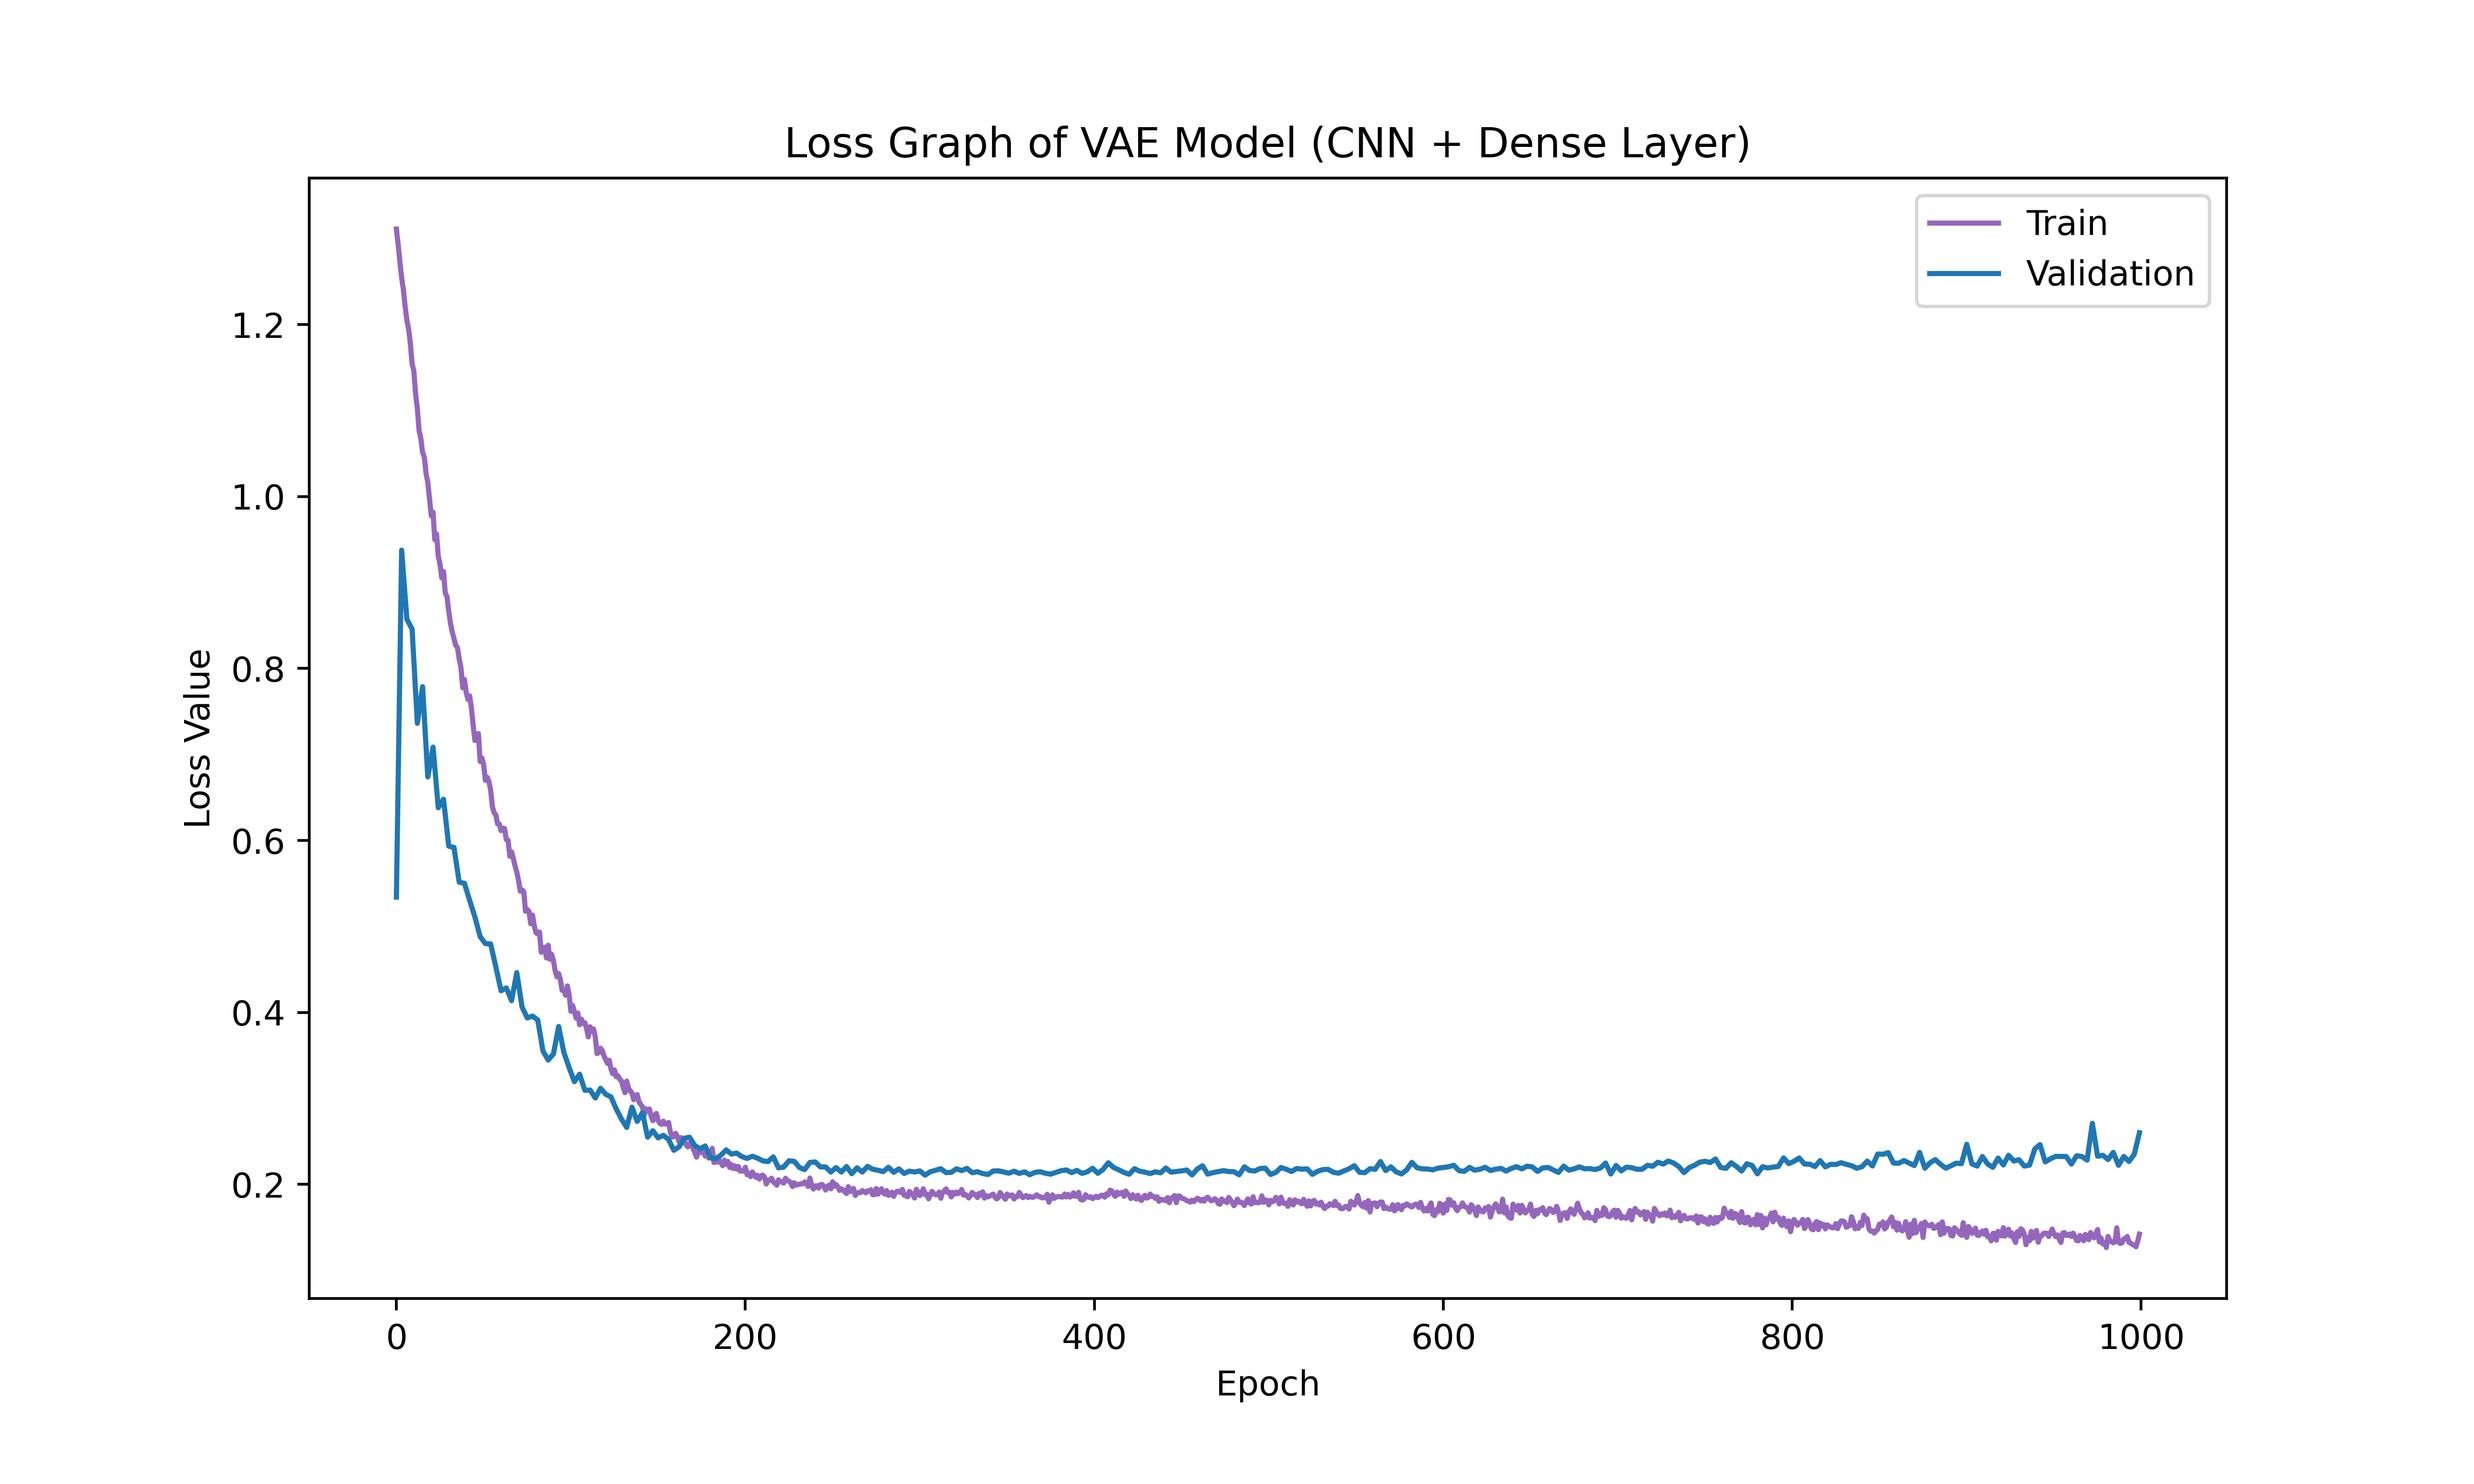
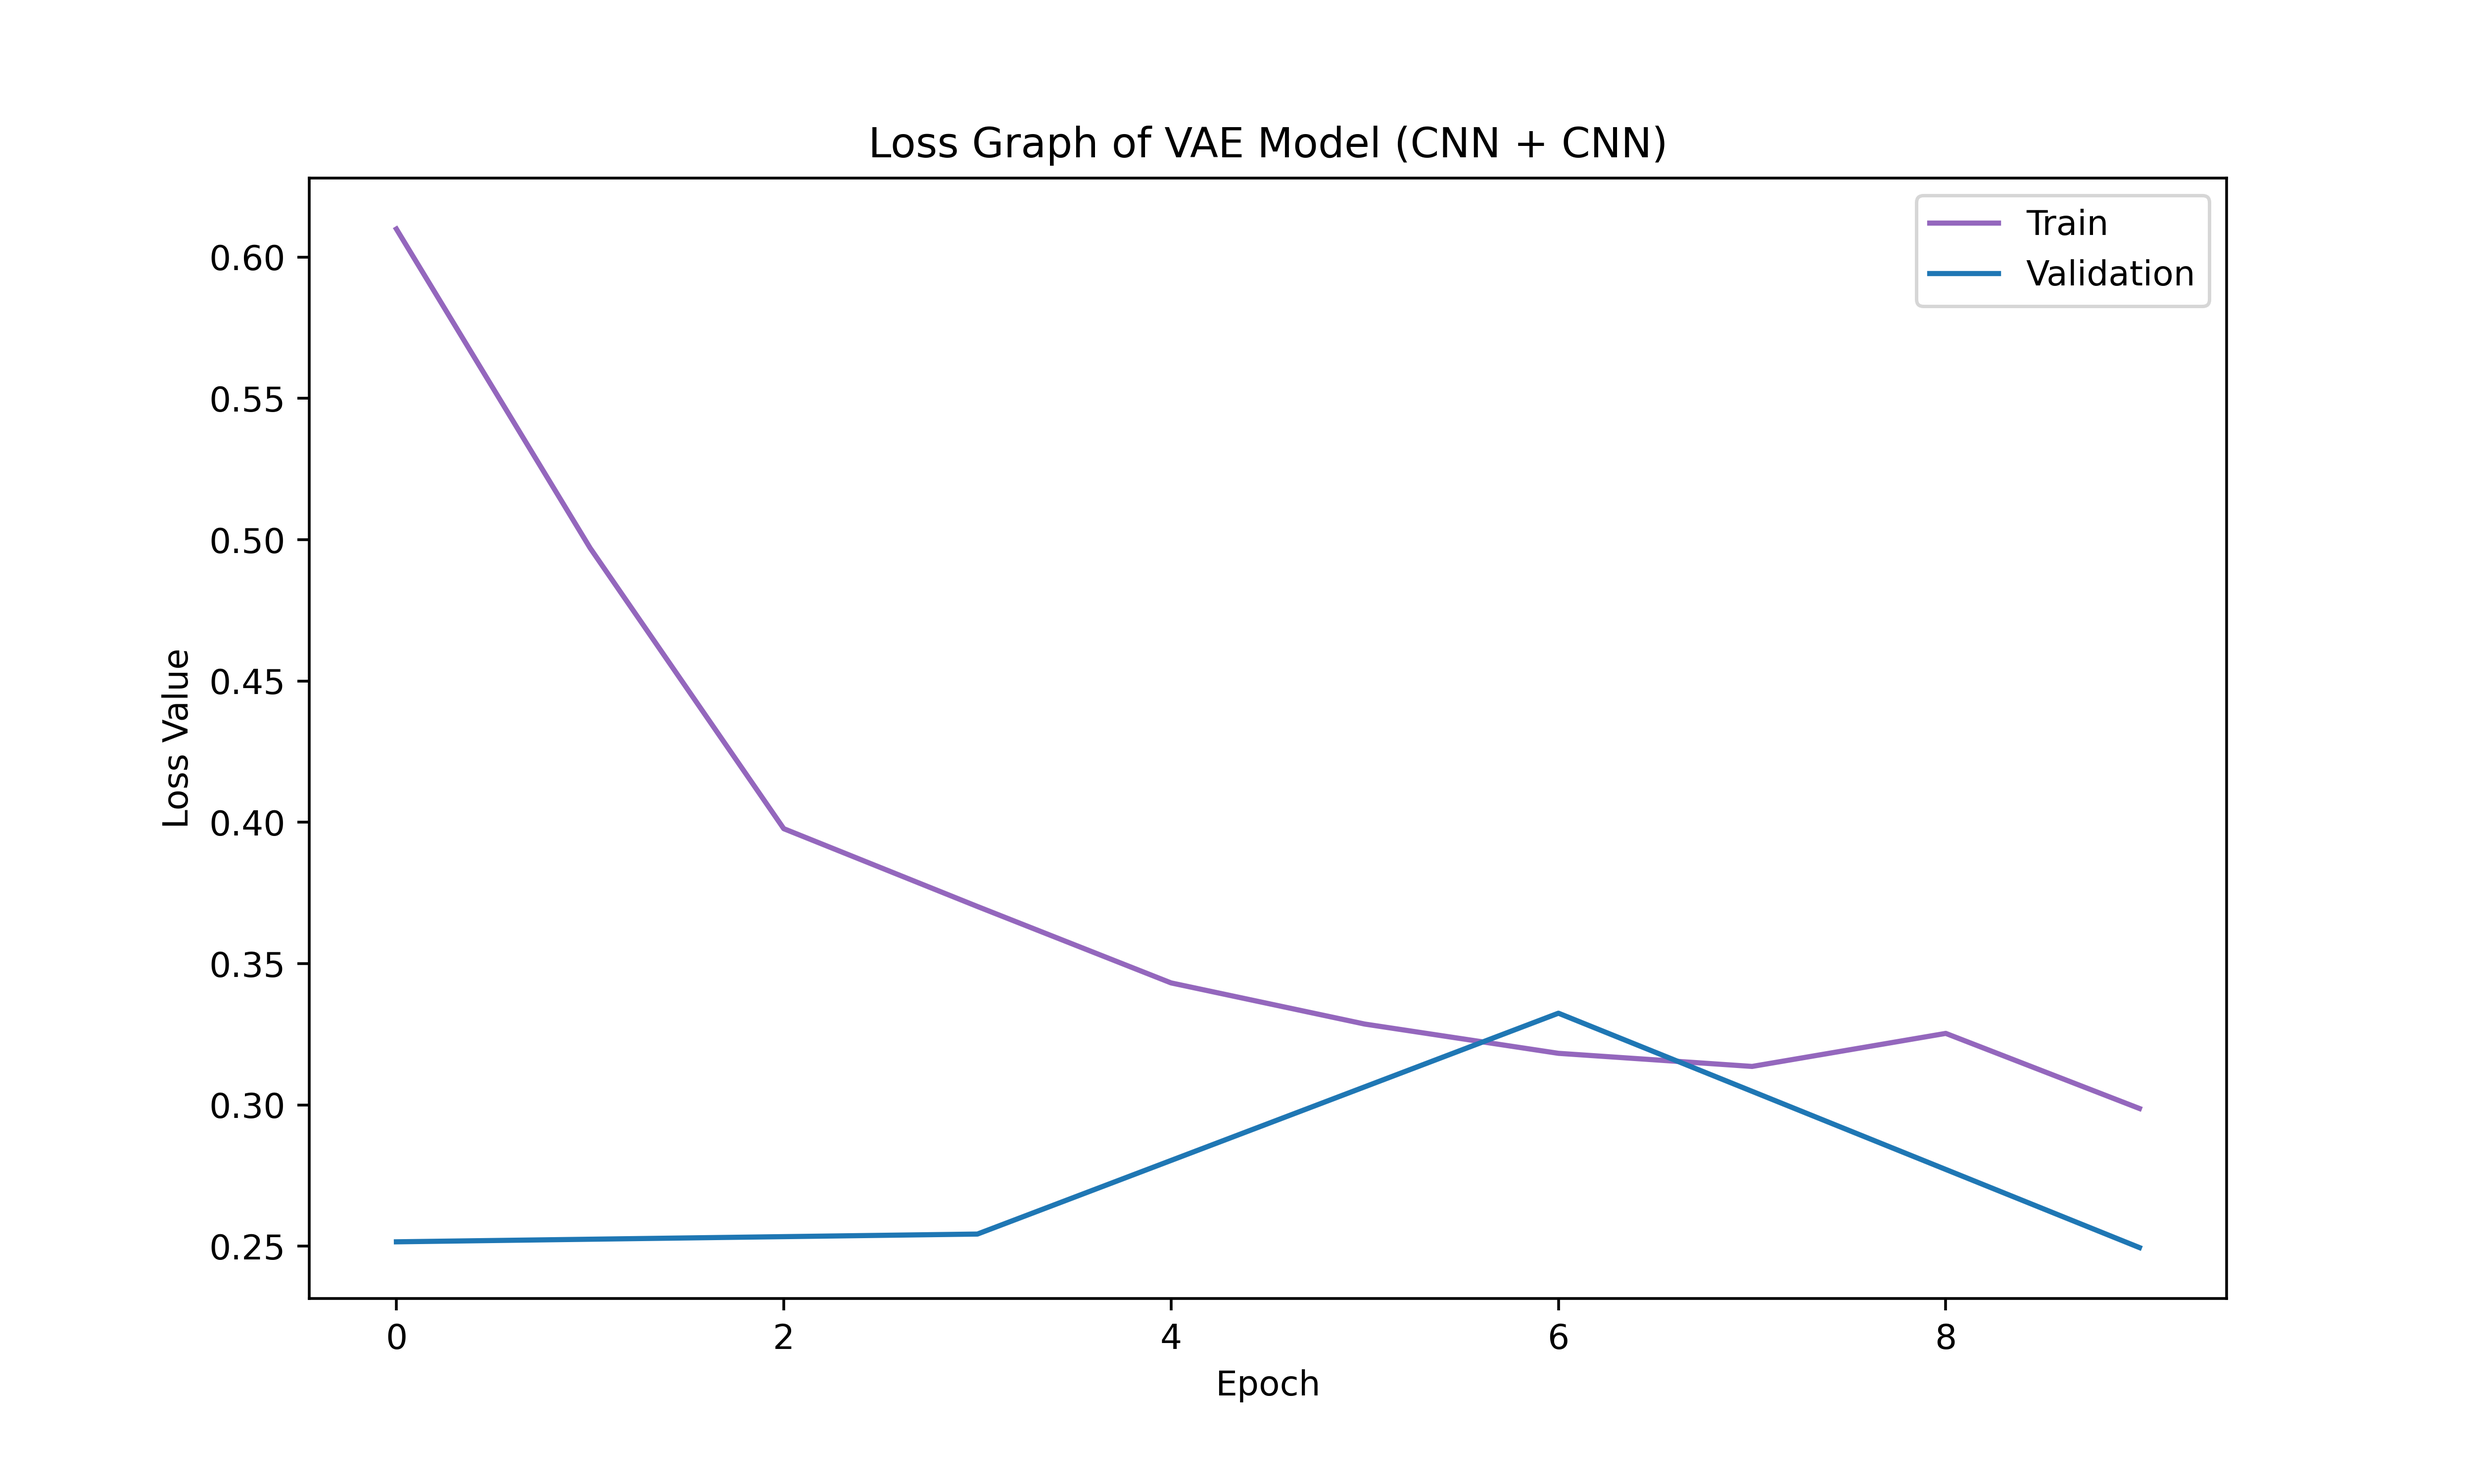
CNN+CNN

diff --git a/vae-creation/model.py b/vae-creation/model.py
@@ -91,14 +91,19 @@ class VAEModel(nn.Module):
             
             
             # decoder 
-            self.dec1 = nn.Linear(in_features=features, out_features=128)
+            
+            
+           
+            self.dec1 = nn.ConvTranspose2d(in_channels=1,out_channels=channel_size,kernel_size=3,stride=1,bias=True)
             self.dec.append(self.dec1)
-            self.dec2 = nn.Linear(in_features=128, out_features=256)
+            self.dec2 = nn.ConvTranspose2d(in_channels=channel_size,out_channels=channel_size,kernel_size=3,stride=1,bias=True)
             self.dec.append(self.dec2)
-            self.dec3 = nn.Linear(in_features=256, out_features=512)
+            self.dec3 = nn.ConvTranspose2d(in_channels=channel_size,out_channels=channel_size,kernel_size=3,stride=1,bias=True)
             self.dec.append(self.dec3)
-            self.dec4 = nn.Linear(in_features=512, out_features=images_size*images_size)
+            self.dec4 =  nn.ConvTranspose2d(in_channels=channel_size,out_channels=channel_size,kernel_size=3,stride=1,bias=True)
             self.dec.append(self.dec4)
+            self.dec5= nn.Linear(in_features=50*9*17, out_features=images_size*images_size)
+            self.dec.append(self.dec5)
 
             self.dec_drop1 = nn.Dropout2d(1-dropout_keep_rate)
             self.dec_drop.append(self.dec_drop1)
@@ -109,13 +114,13 @@ class VAEModel(nn.Module):
             self.dec_drop4 = nn.Dropout2d(1-dropout_keep_rate)
             self.dec_drop.append(self.dec_drop4)
             
-            self.dec_batch1 =nn.BatchNorm1d(128) 
+            self.dec_batch1 =nn.BatchNorm2d(channel_size) 
             self.dec_batch.append(self.dec_batch1)
-            self.dec_batch2 =nn.BatchNorm1d(256) 
+            self.dec_batch2 =nn.BatchNorm2d(channel_size) 
             self.dec_batch.append(self.dec_batch2)
-            self.dec_batch3 =nn.BatchNorm1d(512) 
+            self.dec_batch3 =nn.BatchNorm2d(channel_size) 
             self.dec_batch.append(self.dec_batch3)
-            self.dec_batch4 = nn.BatchNorm1d(images_size*images_size) 
+            self.dec_batch4 = nn.BatchNorm2d(channel_size) 
             self.dec_batch.append(self.dec_batch4)
             
             
@@ -201,7 +206,7 @@ class VAEModel(nn.Module):
             
             
             #Decoder
-            x = z
+            x = z.reshape(-1,1,1,features)
             
             for i in range(4):
                 #cnv
@@ -219,6 +224,8 @@ class VAEModel(nn.Module):
                
                 #dropout
                 if i == 3: #Last Layer 
+                    x = torch.flatten(x, start_dim=1) 
+                    x = self.dec[4](x)
                     out =  x.reshape(-1,images_size,images_size)
                 # else:
                 #     x = self.dec_drop[i](x)
@@ -232,3 +239,7 @@ class VAEModel(nn.Module):
 if __name__ == "__main__":
     model = VAEModel()
     print(model.parameters)
+    
+    
+    
+    

diff --git a/vae-creation/main.py b/vae-creation/main.py
@@ -74,7 +74,7 @@ if __name__ == "__main__":
         print("PART 7...............")
         img_name = "../figures/loss_visualize.png"
         # title = "Loss Graph of VAE Model (Batch + Dropout + KL Divergence)"
-        title = "Loss Graph of VAE Model (CNN + Dense Layer)"
+        title = "Loss Graph of VAE Model (CNN + CNN)"
         visualize_loss(loss["train_every_epoch"], loss["validation_every_epoch"],title, img_name)
 
 
